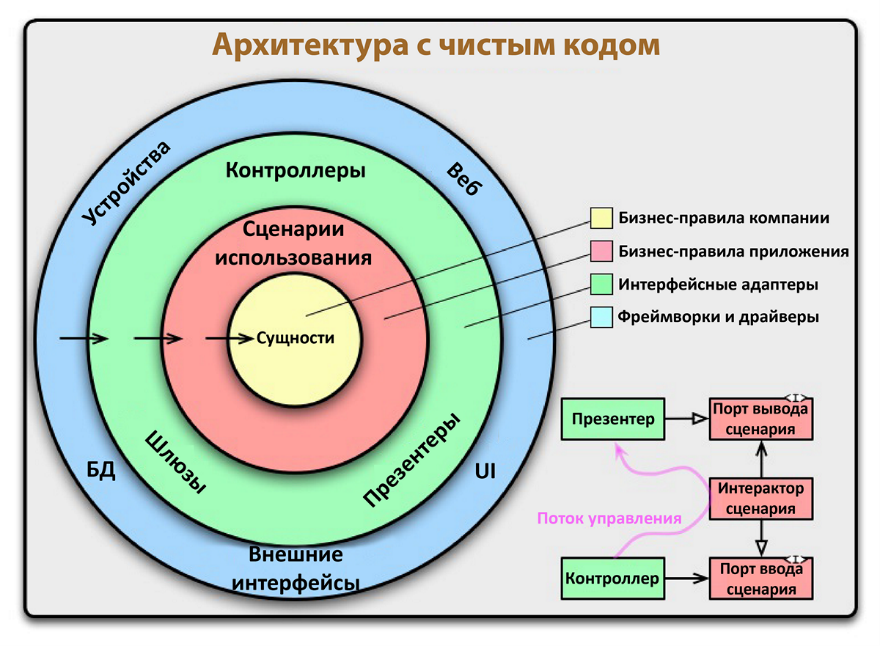
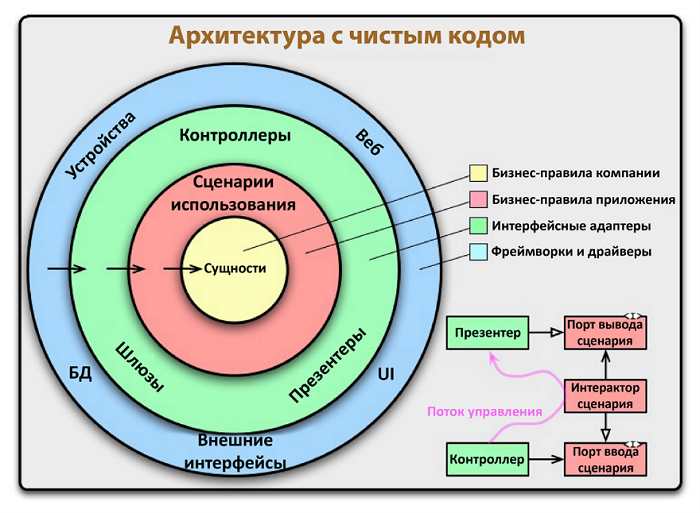
changed images sizes in readme file

diff --git a/README.md b/README.md
@@ -96,7 +96,7 @@
 ## Чистая архитектура
 Приложение спроектировано на основе идеи чистой архитектуры, которая заключается в том, что код разделяется на слои так, чтобы эти слои минимально зависили друг от друга и было легкозаменяемыми. 
 
-![Чистая архитектура](images/clean_architecture1.png)
+![Чистая архитектура](images/clean_architecture.png)
 
 ### Идея чистой архитектуры
 1. **Независимость от фреймворка.** Архитектура не зависит от существования какой-либо библиотеки. Это позволяет использовать фреймворк в качестве инструмента, вместо того, чтобы втискивать свою систему в рамки его ограничений.
@@ -106,7 +106,7 @@
 5. **Независимость от какого-либо внешнего ресурса.** По факту ваши бизнес-правила просто ничего не знают о внешнем мире.
 
 ## Схема запросов
-![Пути запросов](images/paths1.png)
+![Пути запросов](images/paths.png)
 
 ## Developer
 Daniil Sobolev - daniil.sob56@gmail.com (telegram: [dansobolev](https://t.me/dansobolev))
